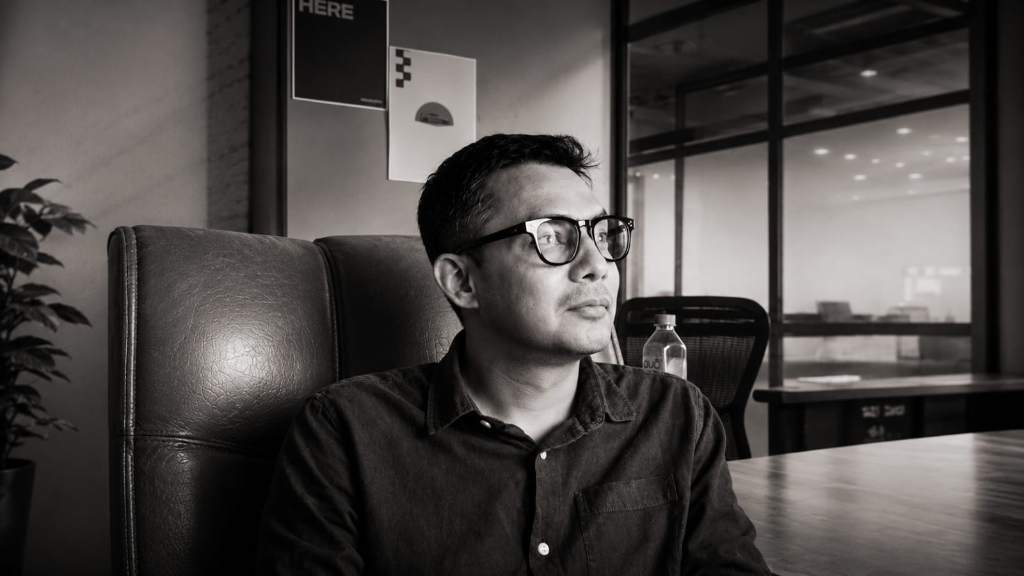
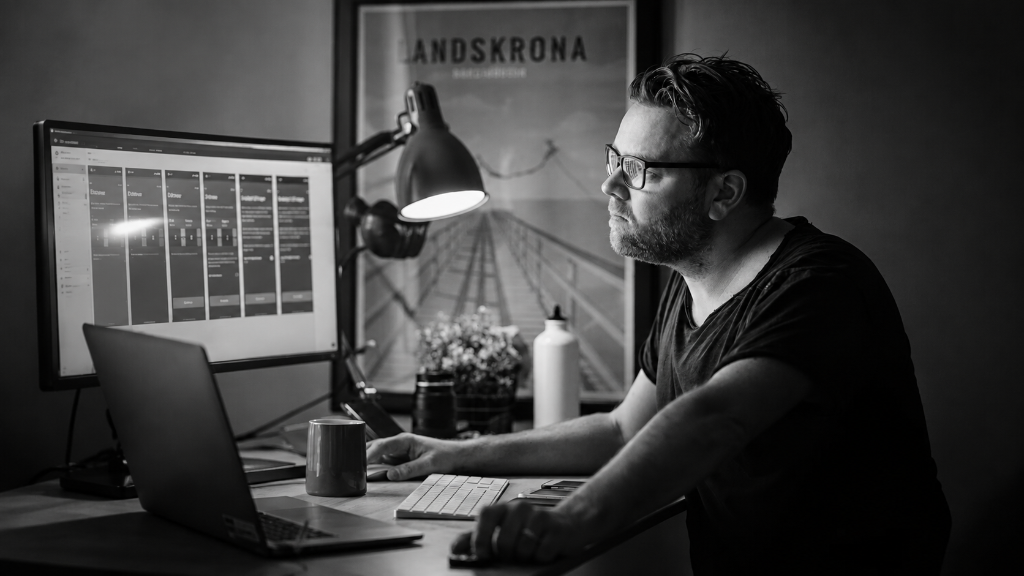
Update founder image to new black-and-white portrait and remove blur and dissolve transition

diff --git a/styles.css b/styles.css
@@ -205,16 +205,15 @@ img {
   opacity: 0;
   pointer-events: none;
   overflow: hidden;
-  will-change: opacity;
 }
 
 .hero-founder-backdrop .founder-bg-img {
   width: 100%;
   height: 100%;
   object-fit: cover;
-  object-position: center 48%;
-  filter: contrast(1.06) brightness(0.68) blur(2px);
-  transform: scale(1.04);
+  object-position: center 38%;
+  filter: contrast(1.05) brightness(0.85);
+  transform: none;
 }
 
 .hero-vignette {
@@ -358,10 +357,9 @@ img {
   width: 100%;
   height: 100%;
   object-fit: cover;
-  object-position: center 48%;
-  filter: contrast(1.06) brightness(0.68) blur(2px);
-  transform: scale(1.04);
-  transition: transform 3s var(--ease-smooth);
+  object-position: center 38%;
+  filter: contrast(1.05) brightness(0.85);
+  transform: none;
 }
 
 .founder-vignette {

diff --git a/app.js b/app.js
@@ -788,13 +788,12 @@
         card.classList.toggle('active', isActive);
       });
 
-      // ── Section 2: Founder Backdrop Crossfade & Content (0.80 -> 1.0) ──
+      // ── Section 2: Founder Backdrop & Content (0.82 -> 1.0) ──
+      const isFounderActive = progress >= 0.82;
       if (founderBackdrop) {
-        const founderAlpha = Math.max(0, Math.min(1, (progress - 0.80) / 0.14));
-        founderBackdrop.style.opacity = founderAlpha;
+        founderBackdrop.style.opacity = isFounderActive ? '1' : '0';
       }
       if (founderLayer) {
-        const isFounderActive = progress >= 0.82;
         founderLayer.classList.toggle('active', isFounderActive);
       }
     }
